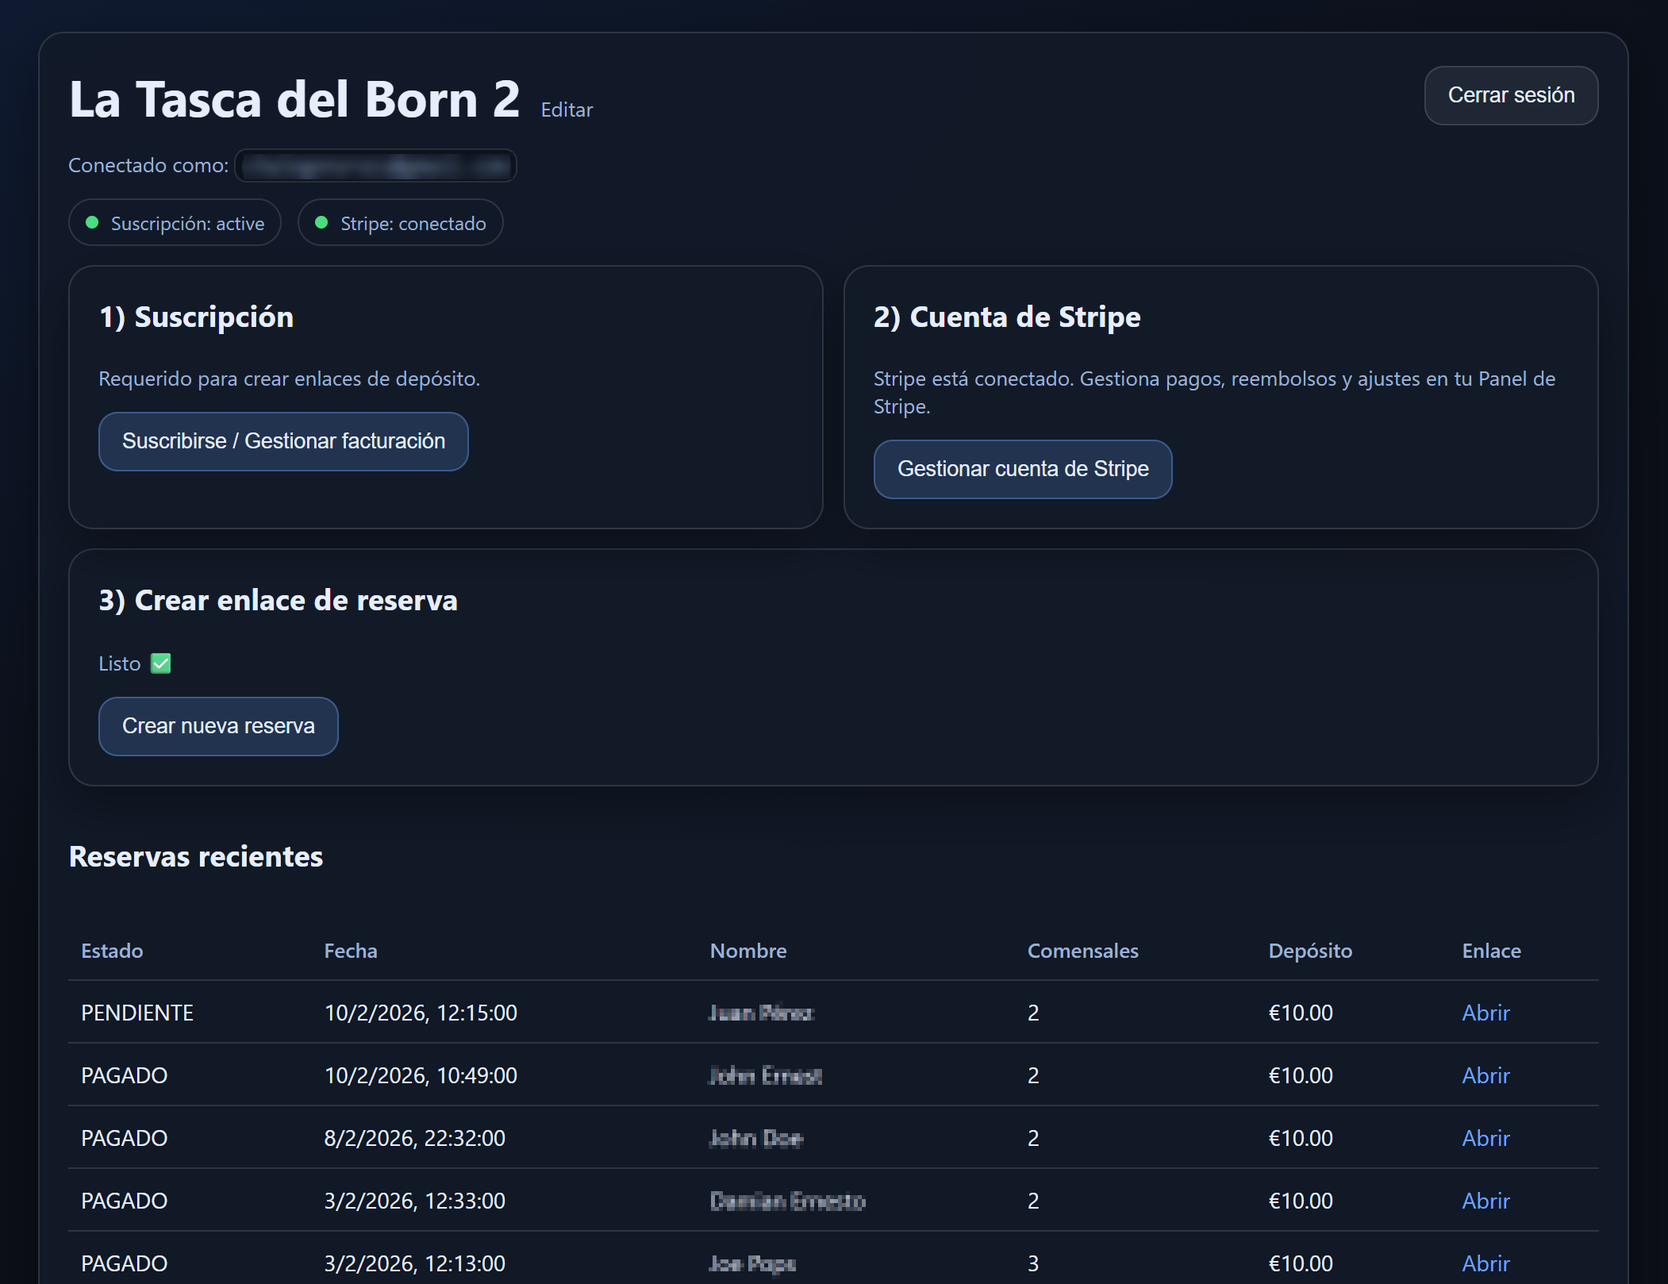
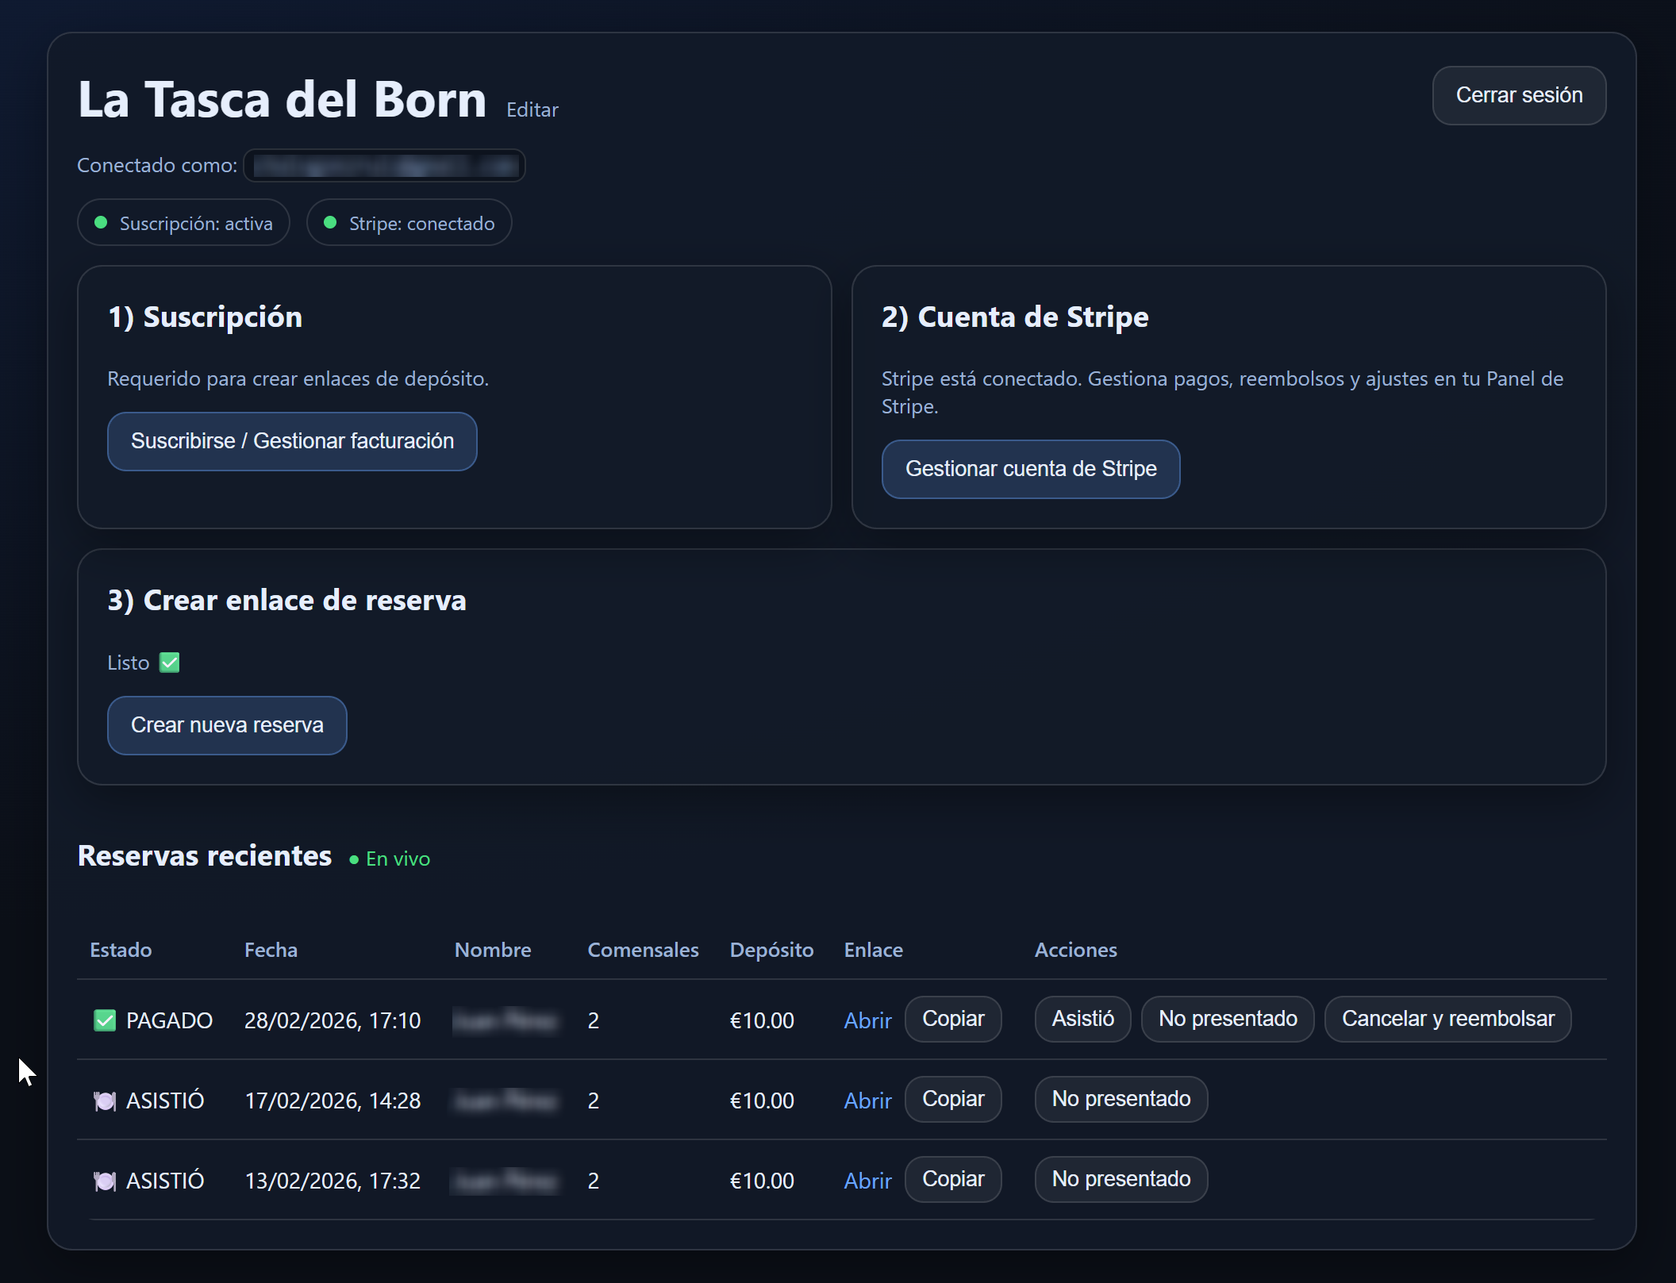
Prepare for publishing: license, README rewrite, repo tidy-up
- LICENSE: all rights reserved (portfolio reading only).
- README rewritten in a plainer, first-person voice.
- Landing image updated to the current dashboard; removed unused duplicate.
- Footer shows "Deposit Links" instead of the template placeholder.
- CI: checkout/setup-node v5 on Node 22 (Node 20 actions deprecated).

diff --git a/app/_components/Footer.tsx b/app/_components/Footer.tsx
@@ -31,7 +31,7 @@ export default function Footer() {
         </div>
 
         <div className="footerBottom small">
-          © {new Date().getFullYear()} <span className="muted">TU_NOMBRE_COMERCIAL</span> Todos los derechos reservados.
+          © {new Date().getFullYear()} <span className="muted">Deposit Links</span> Todos los derechos reservados.
         </div>
       </div>
     </footer>

diff --git a/README.md b/README.md
@@ -1,235 +1,182 @@
 # Deposit Links
 
-**Reservation deposits for restaurants, through a link.** No-shows cost restaurants
-real money. With Deposit Links the restaurant creates a reservation, sends the
-guest a payment link by WhatsApp, and watches it turn **PAGADO** on its dashboard
-in real time. After the meal the deposit is applied to the bill. If the guest doesn't
-show, the restaurant keeps it, and if the restaurant cancels, it's refunded with one click.
+A small SaaS I built for restaurants in Spain that are tired of no-shows.
+
+The restaurant creates a reservation and sends the guest a link, usually over WhatsApp.
+The guest pays a deposit by card, and the reservation shows up as paid on the
+restaurant's dashboard right away, without refreshing. When the guest turns up, the
+deposit comes off the bill. If they don't, the restaurant keeps it. If the restaurant
+has to cancel, one click refunds it.
+
+Restaurants pay a monthly subscription to use it. Guest deposits never go through the
+platform's account: they land directly in each restaurant's own Stripe account via
+Stripe Connect.
 
 [![CI](https://github.com/chalogr2/DepositsApp/actions/workflows/ci.yml/badge.svg)](https://github.com/chalogr2/DepositsApp/actions/workflows/ci.yml)
-![Next.js 14](https://img.shields.io/badge/Next.js-14-black?logo=next.js)
-![TypeScript](https://img.shields.io/badge/TypeScript-strict-3178c6?logo=typescript&logoColor=white)
-![Supabase](https://img.shields.io/badge/Supabase-Postgres%20%7C%20Auth%20%7C%20Realtime-3ecf8e?logo=supabase&logoColor=white)
-![Stripe](https://img.shields.io/badge/Stripe-Billing%20%7C%20Connect-635bff?logo=stripe&logoColor=white)
 
-![Restaurant dashboard: live reservations table with per-reservation actions](docs/screenshots/dashboard.png)
+![Restaurant dashboard](docs/screenshots/dashboard.png)
 
-| 1. Restaurant creates the link | 2. Ready to send by WhatsApp |
-|---|---|
-| ![Create reservation form](docs/screenshots/create-reservation.png) | ![Link created, with copy and WhatsApp buttons](docs/screenshots/link-created.png) |
-| **3. Guest opens it and pays** | **4. The dashboard updates live** |
-| ![Guest payment page](docs/screenshots/guest-payment.png) | The row turns **PAGADO** without a reload. After the reservation time: *Asistió* / *No presentado*, or *Cancelar y reembolsar*. |
+| Creating a link | Link ready to send | What the guest sees |
+|---|---|---|
+| ![Create reservation form](docs/screenshots/create-reservation.png) | ![Link created](docs/screenshots/link-created.png) | ![Guest payment page](docs/screenshots/guest-payment.png) |
 
----
+## Built with
 
-## What it does
+Next.js 14 (App Router) and TypeScript, Supabase (Postgres, Auth, Realtime and row level
+security), Stripe (Billing, Checkout, Connect Express and webhooks), zod, Vitest and
+GitHub Actions.
 
-**The business model.** Restaurants pay the platform a monthly subscription
-(Stripe Billing). Guest deposits are charged **directly on each restaurant's own
-Stripe account** (Stripe Connect), so the restaurant is the merchant of record
-and the platform never holds guest money.
-
-| Restaurant | Guest |
-|---|---|
-| Passwordless login (magic link) | Opens a link, no account needed |
-| Subscribes and manages billing (invoices with address + NIF/CIF) | Sees restaurant, date (Madrid time), party size, deposit, policy |
-| Connects their own Stripe account (Express onboarding) | Pays on Stripe Checkout |
-| Creates a deposit link, copies it or sends it by WhatsApp | Sees the outcome later: paid, cancelled + refunded, or expired |
-| Live reservations table, no reload needed | |
-| Per reservation: **Asistió**, **No presentado**, **Cancelar y reembolsar** | |
-
-A reservation moves through a small, explicit state machine:
+## How a reservation works
 
 ```mermaid
 stateDiagram-v2
     [*] --> PENDING: link created
     PENDING --> PAID: guest pays
-    PENDING --> EXPIRED: reservation time passes unpaid
-    PENDING --> CANCELED: restaurant cancels (payment page closed)
-    PAID --> ATTENDED: after the time, deposit applied to the bill
-    PAID --> NO_SHOW: after the time, restaurant keeps the deposit
-    PAID --> CANCELED: full refund via Stripe
+    PENDING --> EXPIRED: time passes, not paid
+    PENDING --> CANCELED: restaurant cancels
+    PAID --> ATTENDED: guest came
+    PAID --> NO_SHOW: guest didn't come
+    PAID --> CANCELED: refunded
     NO_SHOW --> ATTENDED: undo
     ATTENDED --> NO_SHOW: undo
-    NO_SHOW --> CANCELED: refund after all
+    NO_SHOW --> CANCELED: refunded after all
 ```
 
----
+Unpaid links stop working at the reservation time. "Attended" and "no-show" can only be
+set once that time has passed.
 
-## Engineering highlights
+## Things I had to get right
 
-The interesting part of this project is the payment problems it handles, not the CRUD.
-Each one is written up in [`DEVLOG.md`](DEVLOG.md): symptom, investigation, root
-cause, fix and verification.
+Most of the work here wasn't the screens. It was making sure money and reservation state
+never drift apart. These are the problems that took the most thought. Each one is written
+up in more detail in [DEVLOG.md](DEVLOG.md), including how I tested it.
 
-- **The browser can only read.** Row Level Security lets an owner read only their own
-  rows, and the browser roles have **no** insert/update/delete privileges at all.
-  Every write goes through a server route that checks login, ownership,
-  subscription and input (zod). I proved this with an attack script that uses
-  only the public key, before and after the lockdown.
-- **A payment can't be replayed against another reservation.** A reservation becomes
-  PAID in exactly one function, which checks the Stripe session against the
-  reservation id, the restaurant's connected account, the amount and the currency.
-  Earlier, paying €1 for one reservation could confirm a €50 one.
-- **No lost payments.** Payments are confirmed twice, independently: by the
-  guest's return to `/success`, and by a Stripe **Connect webhook** in case the guest
-  closes the tab. Both paths are idempotent, and the database updates are
-  conditional (`PENDING → PAID` only), so they can't overwrite each other.
-- **Webhooks arrive out of order, so state is re-fetched.** Subscription sync never trusts
-  an event payload; it re-reads the subscription from Stripe. After a restaurant pays,
-  the dashboard also syncs straight from the Checkout session, so it no longer shows the
-  old status while waiting for the webhook.
-- **Refunds are safe to retry.** The refund is created before the database
-  is updated, with an idempotency key per reservation. A double click or a retry
-  returns the same refund instead of refunding twice. Refunds made in the Stripe
-  Dashboard are picked up by the webhook too.
-- **Expiry without a cron job.** Unpaid links expire at the reservation time. The
-  UI computes an *effective status*, and the server writes `EXPIRED` the next time it
-  touches the row (conditionally, so a payment landing at that moment is never lost).
-- **Live dashboard.** Supabase Realtime pushes changes, still filtered by RLS, and the
-  dashboard re-fetches on reconnect and when the tab regains focus, so it catches anything missed.
-- **Time zones.** Times are stored in UTC and always shown in `Europe/Madrid`. That fixed
-  a 1–2 hour drift between the server (UTC), the browser and the form defaults.
-- **One rule, one place.** The UI and the API share pure helpers
-  (`lib/reservation-status.ts`, `lib/subscription.ts`, `lib/config.ts`), so a hidden
-  button and a refused API call always agree. Both are enforced on the server.
+**The browser can only read.** Supabase makes it easy to let the client write straight to
+the database, and that's how this started. Then I wrote a script that logged in as a
+normal user with only the public key and tried to cheat: insert a reservation already
+marked as paid, flip a pending one to paid, create rows for another user. Several of
+those worked. Now the client has no write permissions at all, and every change goes
+through an API route that checks who you are and what you're allowed to touch. The same
+script gets "permission denied" on everything.
 
----
+**One payment confirms one reservation.** Payments are confirmed in a single function.
+It used to trust the reservation id from the URL, so you could pay a €1 reservation and
+use that session to confirm a €50 one. Now it takes the reservation from the Stripe
+session itself and checks the restaurant's Stripe account, the amount and the currency
+before marking anything as paid.
 
-## Architecture
+**Closing the tab can't lose a payment.** If a guest paid and closed the tab before the
+success page loaded, the reservation stayed pending forever. Now a Stripe Connect
+webhook confirms the payment as well. Either path can do it, and running both is
+harmless because the update only moves a reservation from pending to paid once.
 
-```mermaid
-flowchart LR
-    R[Restaurant browser] -- "read own rows (RLS)<br/>+ Realtime" --> DB[(Supabase Postgres)]
-    R -- "every write" --> API[Next.js route handlers]
-    G[Guest browser] --> API
-    API -- "service role" --> DB
-    API -- "subscriptions" --> SP[Stripe: platform account]
-    API -- "deposits, refunds" --> SC[Stripe: restaurant's connected account]
-    SP -- "webhook" --> W1["/api/stripe/webhook"]
-    SC -- "Connect webhook" --> W2["/api/stripe/connect-webhook"]
-    W1 --> DB
-    W2 --> DB
-```
+**Webhooks show up late.** After paying for a subscription, the dashboard kept showing
+the old status until you refreshed, because the webhook hadn't arrived yet. The dashboard
+now syncs from the Checkout session as soon as you come back, and the sync always
+re-reads the subscription from Stripe instead of trusting what an event says.
 
-How a guest payment is confirmed:
+**Refunds you can click twice.** Cancelling a paid reservation refunds it in Stripe
+first and only then updates the database, using one idempotency key per reservation. A
+double click, or a retry after an error, gets the same refund back instead of a second
+one. Refunds made directly in the Stripe dashboard come in through the webhook too.
+
+**Expiring links without a cron job.** There's no background worker. A pending
+reservation whose time has passed is shown as expired straight away, and the database
+catches up the next time the server touches that row. That update only applies to rows
+that are still pending, so it can't overwrite a payment arriving at the same moment.
+
+**Time zones.** Everything is stored in UTC and shown in Madrid time. Before that, times
+were off by an hour or two depending on whether the code ran on the server or in the
+browser, and on the time of year.
+
+## How a payment gets confirmed
 
 ```mermaid
 sequenceDiagram
     participant G as Guest
-    participant App as Next.js
-    participant S as Stripe (restaurant's account)
+    participant App as Next.js app
+    participant S as Restaurant's Stripe account
     participant DB as Postgres
-    participant D as Restaurant dashboard
-    G->>App: open /r/:id, click "Pagar"
-    App->>S: create Checkout session (metadata: reservation_id)
+    participant D as Dashboard
+    G->>App: opens /r/:id and clicks Pagar
+    App->>S: creates a Checkout session
     G->>S: pays
-    par guest returns
-        G->>App: /success → verify
-        App->>S: retrieve session
-    and Stripe notifies
-        S->>App: checkout.session.completed (Connect)
+    par guest comes back
+        G->>App: /success verifies the session
+    and Stripe calls the webhook
+        S->>App: checkout.session.completed
     end
-    App->>DB: checks pass → UPDATE … SET PAID WHERE status IN (PENDING, EXPIRED)
-    DB-->>D: Realtime change → row turns PAGADO
+    App->>DB: checks pass, marks the reservation PAID
+    DB-->>D: Realtime update, row turns PAGADO
 ```
 
-**Stack:** Next.js 14 (App Router, route handlers, middleware) · TypeScript (strict) ·
-Supabase (Auth, Postgres, RLS, Realtime) · Stripe (Billing, Checkout, Billing
-Portal, Connect Express, webhooks) · zod · Vitest · GitHub Actions
-
----
-
-## Project structure
+## Project layout
 
 ```
 app/
-  vendor/                     restaurant dashboard, onboarding, profile, new reservation
-  r/[id]/                     guest deposit page
-  success/                    guest return page (verifies the payment)
-  admin/                      platform overview (ADMIN_EMAILS only)
-  api/vendor/…                restaurant actions: subscribe, connect, create, change status
-  api/guest/…                 guest checkout + verify
-  api/stripe/webhook          platform events (subscriptions)
-  api/stripe/connect-webhook  connected-account events (deposits, refunds)
+  vendor/                  restaurant dashboard, onboarding, new reservation
+  r/[id]/                  page the guest opens
+  success/                 where the guest lands after paying
+  admin/                   overview of all restaurants
+  api/vendor/              restaurant actions
+  api/guest/               guest checkout and verification
+  api/stripe/              platform webhook and Connect webhook
 lib/
-  reservation-payments.ts     the only place a reservation becomes PAID
-  reservation-lifecycle.ts    cancel/refund, no-show, attended, expiry (server)
-  reservation-status.ts       state machine rules (shared by UI + API)
-  billing-sync.ts             Stripe → DB subscription sync
-  subscription.ts, datetime.ts, money.ts, config.ts
-migrations/                   incremental SQL for an existing database, run in order
-supabase.sql                  full schema for a new database (= all migrations)
-tests/                        Vitest unit tests
-DEVLOG.md                     engineering log: every change, why, and how it was verified
+  reservation-payments.ts  the only place a reservation becomes paid
+  reservation-lifecycle.ts cancel, refund, attended, no-show, expiry
+  reservation-status.ts    the status rules, shared by the UI and the API
+  billing-sync.ts          copies subscription state from Stripe
+migrations/                SQL changes for an existing database, in order
+supabase.sql               full schema for a new database
+tests/                     Vitest tests
+DEVLOG.md                  what changed, why, and how I checked it
 ```
-
----
 
 ## Tests
 
-```bash
-npm test          # Vitest
-npm run typecheck
-npm run lint
-```
+`npm test` runs the Vitest suite. I focused on the places where a bug would cost someone
+money: the payment checks (replayed sessions, wrong account, wrong amount, confirming
+twice), the reservation rules down to the exact second, the subscription rule and the
+time zone handling. The payment tests run against a small in-memory stand-in for the
+database, so they don't need Supabase or Stripe. CI runs type checking, lint and the
+tests on every push.
 
-CI runs all three on every push and pull request. The tests cover the parts
-where a bug costs money or trust:
+## Running it locally
 
-- **Payment confirmation** (`reservation-payments.test.ts`): replayed sessions,
-  the wrong Stripe account, wrong amount or currency, unpaid sessions, idempotency, and
-  late payments on expired or cancelled reservations. It runs against an in-memory
-  database fake, so no network is needed.
-- **Reservation state machine**: every status × before/after the reservation time,
-  including the exact-second boundary.
-- **Subscription rule**: including the "DB says active but the period is over" case.
-- **Time zones and money parsing**: Madrid winter/summer offsets, and `10,50` with a decimal comma.
-
----
-
-## Running locally
-
-**You need:** Node 18+, a Supabase project, a Stripe account in **test mode** and the
+You'll need Node 18 or newer, a Supabase project, a Stripe account in test mode and the
 [Stripe CLI](https://stripe.com/docs/stripe-cli).
 
-1. **Install and configure**
+```bash
+npm install
+cp .env.example .env
+```
+
+Fill in `.env`; each value is explained in the file. Then:
+
+1. In Supabase, run `supabase.sql` in the SQL editor. If the database already exists,
+   run whichever files in `migrations/` you haven't run yet, in order. Enable the Email
+   provider and add `http://localhost:3000/auth/callback` as a redirect URL.
+2. In Stripe, create a monthly recurring price, put its id in `STRIPE_SUB_PRICE_ID` and
+   enable Connect with Express accounts.
+3. In a second terminal, forward the webhooks and leave it running:
    ```bash
-   npm install
-   cp .env.example .env     # fill in the values; each one is commented in the file
-   ```
-2. **Database (Supabase)**
-   - New project: run `supabase.sql` in the SQL Editor.
-   - Existing project: run the `migrations/` files you haven't run yet, in order.
-   - Auth → Providers: enable **Email**. Auth → URL Configuration: add
-     `http://localhost:3000/auth/callback` as a redirect URL.
-3. **Stripe (test mode)**
-   - Create a recurring monthly Price and put its id in `STRIPE_SUB_PRICE_ID`.
-   - Enable **Connect** (Express accounts).
-4. **Forward webhooks** in a second terminal, and leave it running:
-   ```bash
-   stripe login
    stripe listen --forward-to localhost:3000/api/stripe/webhook \
                  --forward-connect-to localhost:3000/api/stripe/connect-webhook
    ```
-   Put the printed `whsec_…` in `STRIPE_WEBHOOK_SECRET`. Locally one secret
-   signs both endpoints, so leave `STRIPE_CONNECT_WEBHOOK_SECRET` empty.
-5. **Run**
-   ```bash
-   npm run dev              # http://localhost:3000
-   ```
-   Test card: `4242 4242 4242 4242`, any future date, any CVC.
+   Copy the `whsec_...` secret it prints into `STRIPE_WEBHOOK_SECRET`.
+4. Start the app with `npm run dev` and open http://localhost:3000.
 
----
+The test card `4242 4242 4242 4242` works with any future date and any CVC.
 
-## Status and roadmap
+## Status
 
-A working MVP, built as a portfolio project and run in Stripe test mode.
-Before real use it would need:
+This is a portfolio project. It works end to end in Stripe test mode, but it hasn't been
+taken to production. That would still need live keys and webhook endpoints, a proper
+email provider (or OAuth) for login, IVA on the subscription invoices, email
+notifications and some error monitoring. The full backlog is at the end of
+[DEVLOG.md](DEVLOG.md).
 
-- production setup: live keys, production webhook endpoints, custom SMTP or OAuth login;
-- IVA on subscription invoices (Stripe Tax);
-- email notifications, plus pagination and search on the dashboard;
-- error monitoring.
+## License
 
-The full backlog, with priorities, is at the end of [`DEVLOG.md`](DEVLOG.md).
+All rights reserved. The code is public so people can read it, not to be reused. See
+[LICENSE](LICENSE).

diff --git a/DEVLOG.md b/DEVLOG.md
@@ -28,6 +28,25 @@ This file records **what changed, why, and how we checked it**, so any developer
 
 ---
 
+## 2026-11-18: Publishing: license, README in the owner's voice, repo tidy-up
+
+Preparing `staging` to be merged into `main` and the repository to be made public.
+
+| Change | Why |
+|---|---|
+| `LICENSE`: all rights reserved | Owner decision. The code is public for portfolio reading, not reuse. Without a license file the default is the same, but saying it explicitly avoids doubt. |
+| README rewritten in the first person, in a plainer voice | Owner request: it should read like the author wrote it. Same facts as before; one screenshot table instead of the 2×2 grid; the architecture flowchart was dropped (the sequence diagram covers it). No long dashes. |
+| Landing image (`public/landing-demo.png`) replaced with the current dashboard screenshot | The old one showed the UI from before the actions column. |
+| Deleted `public/landing/landing-demo.png` | An identical, unused copy. |
+| Footer shows "Deposit Links" instead of `TU_NOMBRE_COMERCIAL` | Template placeholder visible on every page. The legal pages keep their placeholders, since they need a real legal entity that a portfolio project doesn't have. |
+| CI: `actions/checkout@v5`, `actions/setup-node@v5`, Node 22 | The first CI run warned that the v4 actions use the deprecated Node 20 runtime. |
+| Repo description and topics set on GitHub | So the repository page says what it is. |
+
+**History:** the merge into `main` uses a merge commit, not a squash, so the full
+commit history stays visible.
+
+---
+
 ## 2026-11-18: Automated tests, CI, portfolio README (backlog 14, 13)
 
 **Branch:** `staging`. The previous work was pushed as `bd99e9b`.
